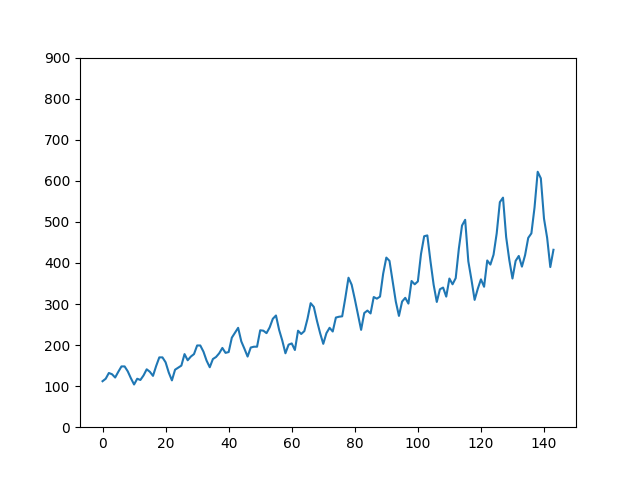
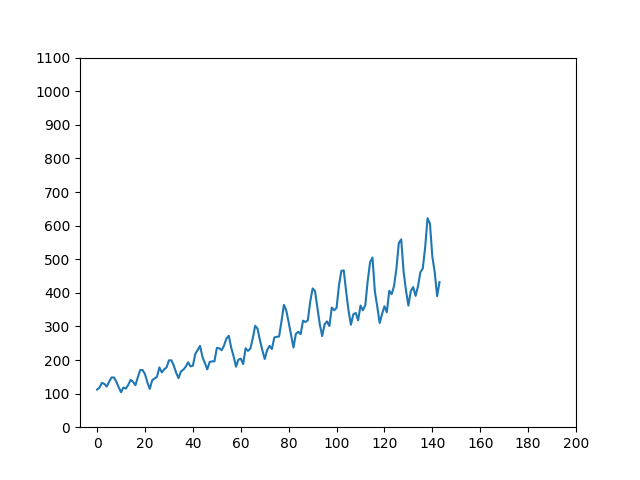
increase size of plot for airline_passengers_visual.py

diff --git a/TimeSeriesPrediction/2_UnivariatTimeSeriesForecast/AirlinePassengers/airline_passengers_visual.py b/TimeSeriesPrediction/2_UnivariatTimeSeriesForecast/AirlinePassengers/airline_passengers_visual.py
@@ -4,6 +4,6 @@ import matplotlib.pyplot as plt
 data = pd.read_csv("./AirlinePassengers.csv", sep=";")
 
 plt.plot(data["Passengers"])
-plt.xticks(range(0, 150, 20))
-plt.yticks(range(0, 1000, 100))
+plt.xticks(range(0, 220, 20))
+plt.yticks(range(0, 1200, 100))
 plt.savefig("./airlinePassengers.png")
